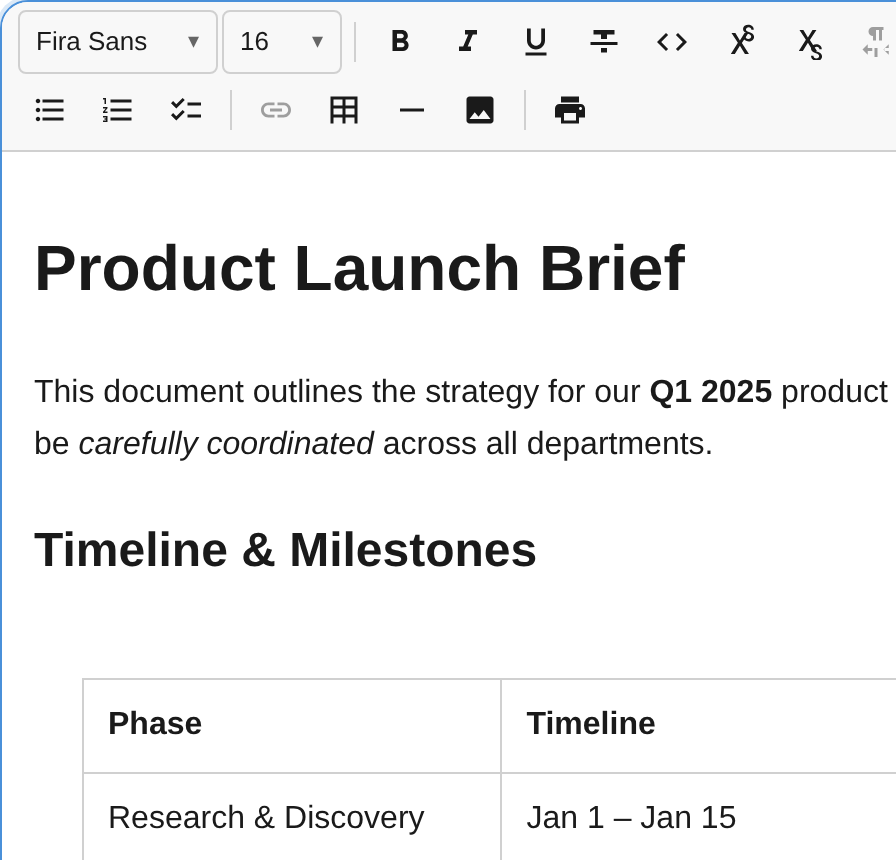
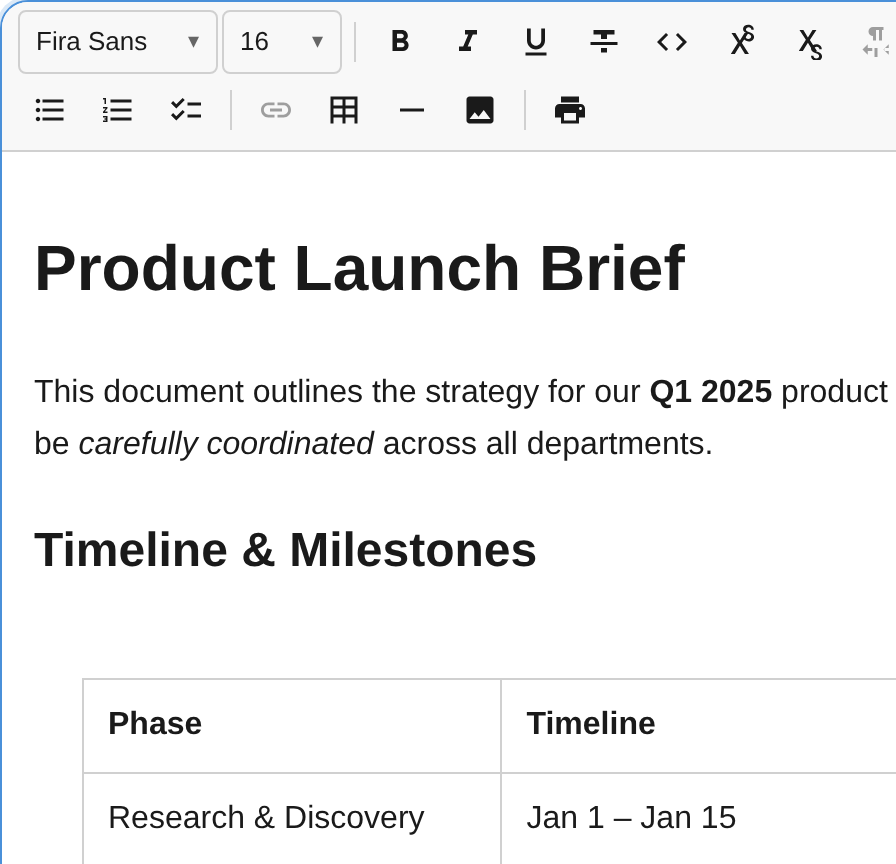
Update Docs

diff --git a/CHANGELOG.md b/CHANGELOG.md
@@ -7,6 +7,20 @@ and this project adheres to [Semantic Versioning](https://semver.org/spec/v2.0.0
 
 ## [Unreleased]
 
+## [2.1.4] - 2026-05-30
+
+### Added
+
+- **Blockquote is now a container block (#136)** — Blockquote becomes a B2 container that wraps other blocks instead of being a flat text block, fixing two related bugs: a multi-block selection now wraps every selected block into a single quote, and quoting a list keeps the list structure intact. The `NodeSpec` content allows block children (`paragraph`, `heading`, `list_item`, `blockquote`, `horizontal_rule`, `code_block`) and is non-isolating, so the caret flows across the container edges natively. New `commands/ContainerCommands.ts` wraps or lifts the selected top-level block range while preserving block identity: `toggleBlockquote` wraps, or lifts when already quoted; `setBlockquote` wraps. `isActive` is ancestor-based via the new `hasAncestorOfType` / `findAncestorOfType` helpers in `NodeResolver`. The `"> "` input rule wraps the current paragraph into a quote. Container keyboard navigation: `Enter` exits an empty last child, `Backspace` lifts the first child, both dissolving an emptied quote; arrow crossing is native. `DocumentParser` parses `<blockquote>` recursively and preserves `dir` / `align`, and paste routes `<blockquote>` through the container-aware parser so nested content no longer flattens. Undo relies on step composition (no dedicated `WrapStep` needed), verified by linear and intervening-rebase stress tests. The blockquote plugin docs page was rewritten for the container model with a regenerated screenshot.
+
+### Changed
+
+### Fixed
+
+- **HTML whitespace normalization on import and paste (#137)** — Both HTML parsers previously took text-node content verbatim, treating insignificant HTML whitespace (newlines, tabs, indentation) as significant. Firefox hard-wraps clipboard `text/html` at roughly 72 columns, inserting newlines inside paragraph text that the paste parser then split into extra paragraphs; the same defect left stray newlines and indentation in list items and in `setContentHTML` content. A shared DOM pass (`serialization/HTMLWhitespace.ts`) now implements the CSS `white-space: normal` model: it collapses runs of ASCII whitespace to a single space across inline boundaries, trims at block edges, and exempts `pre` / `textarea` / `white-space: pre*` subtrees so code blocks keep their indentation. It mutates only `Text.data`, leaving marks, block ids, and attributes intact, and is wired into both `HTMLParser.parse()` (paste) and `parseHTMLToDocument()` (`setContentHTML`). Non-breaking spaces are preserved and `<br>` handling is intentionally unchanged.
+
+- **Blockquote wrapping respects `content.allow`** — `wrapSelectionInContainer` previously stuffed every block in the top-level range into the container, but `applyInsertNode` performs no schema validation, so a block not in the container's `content.allow` (for example a table inside a blockquote) was nested into a schema-invalid document on the canonical "select all then Blockquote" path. An optional `isAllowedChild` predicate now breaks the range into maximal runs of wrappable blocks, each wrapped in its own container (`wrapIn`-style), while disallowed blocks stay at the top level; the operation returns `null` when no block in the range is wrappable. `BlockquotePlugin` derives the predicate from the registered `NodeSpec` `content.allow` as a single source of truth, matching both concrete child types and group names.
+
 ## [2.1.3] - 2026-05-18
 
 ### Added
@@ -22,7 +36,7 @@ and this project adheres to [Semantic Versioning](https://semver.org/spec/v2.0.0
 - **TypeScript / TSX language support (#114)** — `CodeBlockPlugin` now ships with built-in TypeScript syntax highlighting and `SmartPastePlugin` with TypeScript content detection, alongside the existing Java / JSON / XML support. The new `TYPESCRIPT_LANGUAGE` definition covers modern TS — comments, escape-aware strings and template literals, decorators, the full keyword set incl. `satisfies` / `using` / `infer` / `keyof` / `asserts` / `out` / `override`, numeric literals with `_` separators and `BigInt` `n` suffix (hex/octal/binary/decimal/scientific), and modern operators (`=>`, `??`, `??=`, `?.`, `...`, `**=`, `>>>=`, `&&=`, `||=`). Word boundaries are enforced so identifiers like `interfaceName` are not mis-tokenized as keywords. The new `TypeScriptDetector` scores ES imports/exports, `type` / `interface` / `enum` / `namespace` / `declare`, `const` / `let` bindings, arrow functions, optional chaining, nullish coalescing, template literals, type annotations, `async`, decorators and generics; it carries explicit negative signals (`package …;`, `System.out.…`) to avoid misdetecting Java code, and is ReDoS-resistant (50 000-character adversarial inputs complete in < 100 ms). Aliases `ts` and `tsx` resolve to TypeScript in both the language registry and the tokenizer; JSX-specific tags are not parsed as separate token types in this iteration and fall back to standard TypeScript tokenization.
 
 ### Fixed
-
+z
 - **Inline-node decoration drift in `DecorationSet.map(tr)` (audit A2 / hotfix)** — Mapping decorations through `insertInlineNode` / `removeInlineNode` steps fell into the `default: return deco` arm of `mapInline` / `mapWidget`, so any plugin that cached a `DecorationSet` and incrementally remapped it (instead of rebuilding from `state`) would see decorations drift by one offset per inline-node insertion or deletion. The `hard_break` plugin already emits these steps in production via `Commands.ts`, making the bug reachable as soon as any consumer adopted the cached-set optimization. The two switches now handle inline-node steps with width-1 arithmetic mirroring `insertText` (`len = 1`) and `deleteText` (`from = step.offset, to = step.offset + 1`); regression tests cover both step types × {inline, widget, node} decoration shapes.
 - **Sibling-index shift now rebased across structural undo under `recordIntervening` (follow-up to #129)** — `insertNode` / `removeNode` previously kept their `index` field unchanged when an intervening transaction inserted or removed a sibling in the same parent, so undo of a structural edit could remove the wrong block or insert at the wrong slot. The fix introduces a sixth `StepMap` category, `ChildIndexShiftMap { parentPath, fromIndex, delta }`, produced by `getMapInsertNode`, and extends `BlockRemovalMap` with mandatory `parentPath` / `index` fields populated from the `removeNode` step itself. Two new helpers in `Mapping.ts` — `mapChildIndex` (existing-child semantics: `null` when an intervening removal eats the exact slot) and `mapInsertionIndex` (insertion-slot semantics: the slot survives a same-index removal because it names *where to insert*, not an existing block) — drive the rebase. `mapInsertNode` uses the latter; `mapRemoveNode` uses the former, alongside the existing block-still-distinct probe. The `parentPath` is never rebased through structural maps (block identity does not shift in child-slot space), so the existing `parentPathStillValid` check continues to govern ancestor migration. New public exports from `@notectl/core`: `ChildIndexShiftMap`, `mapChildIndex`, `mapInsertionIndex` — the same primitives a future collab / OT layer needs for rebasing structural operations against remote edits. Tests cover `mapChildIndex` and `mapInsertionIndex` matrices in `state/Mapping.test.ts`, per-step rebase under both `childIndexShift` and `blockRemoval` (insertion-slot and existing-child cases) in `state/StepMapping.test.ts`, and end-to-end `insertNode` / `removeNode` undo under intervening sibling edits in `state/History.test.ts`.
 - **Undo of `addMark` / `removeMark` over a partially-marked range no longer strips pre-existing marks (#128)** — `AddMarkStep` / `RemoveMarkStep` previously carried only `{ blockId, from, to, mark }` and the symmetric inverse covered the entire user-supplied range. When the action was applied to a range where some positions already carried the mark, the inverse stripped those pre-existing marks on undo (and the mirror case re-added marks to previously-unmarked sub-ranges through `removeMark` → undo), silently corrupting the document. The fix moves planning out of the steps and into the `TransactionBuilder`: `addMark` now walks the working document and emits one `AddMarkStep` per maximal sub-range that does not yet carry the mark type; `removeMark` emits one `RemoveMarkStep` per maximal sub-range that does carry the mark, with each step's `mark` field capturing the actual mark from the document (including attrs) so the inverse restores `link href`, `color` and other attributed marks faithfully. `StepApplication` and `StepInversion` are unchanged — the existing symmetric inverse is now exact because every emitted step accurately describes only the positions it modified. New helpers `findRangesMissingMark` / `findRangesWithMark` in `state/InlineContentOps.ts` are pure and coalesce across `InlineNode`s (which are inert: passed through, never break or start a range), and the builder falls back to a single full-range step when no working document is available (e.g. low-level tests). `AddMarkStep` / `RemoveMarkStep` now document the builder-enforced invariants explicitly. Acceptance criteria from the issue are covered by new tests in `state/MarkUndo.test.ts` (both add and remove polarity, attribute preservation through undo, redo correctness, no-op transactions when the mark already covers / is absent across the entire range, `InlineNode` coalescing, mixed mark types).